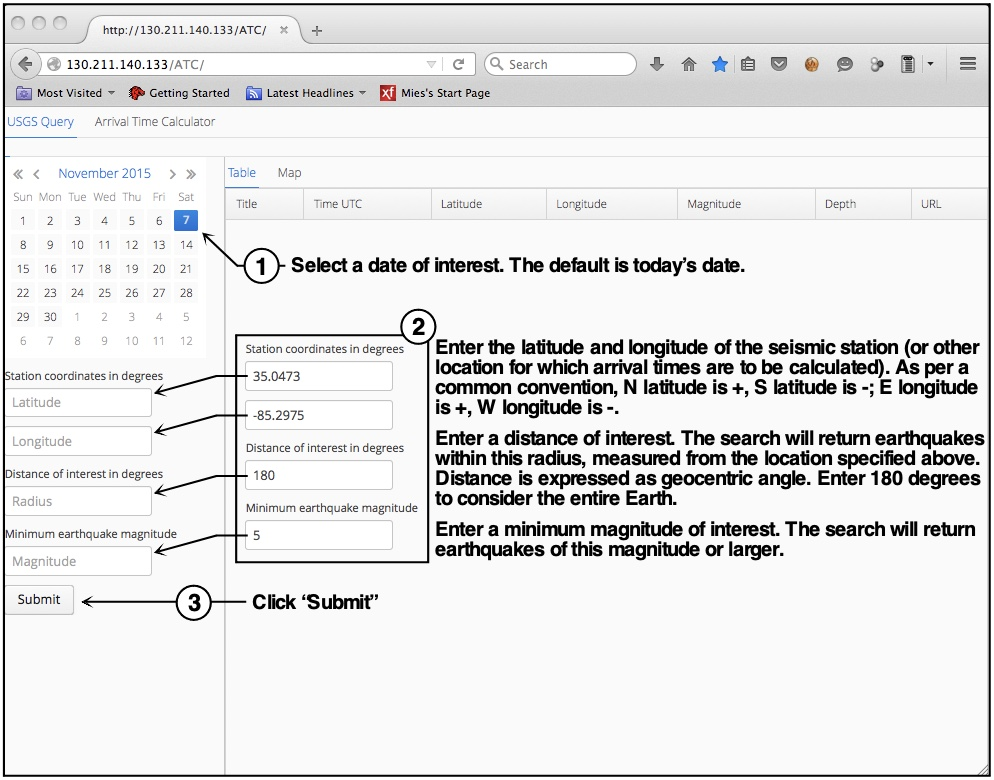
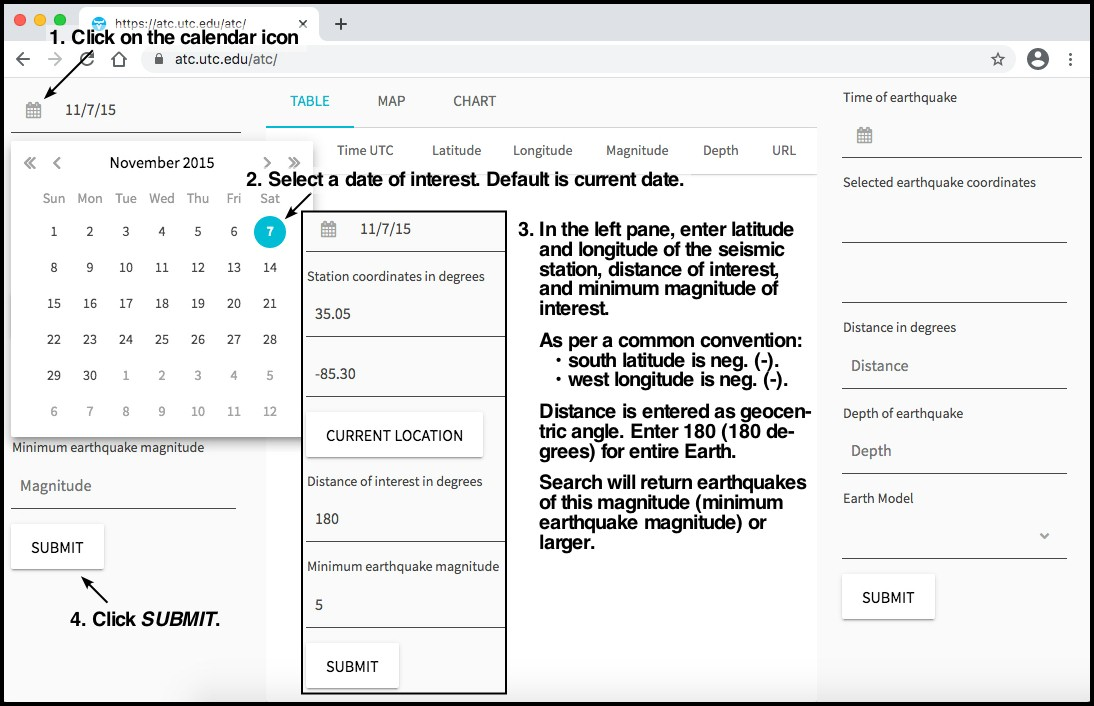
Add files via upload

diff --git a/atc/atc.html b/atc/atc.html
@@ -18,12 +18,15 @@
             </font><br>
             <font size="+1"><font size="+1">The web app was developed in
                 2016 by UTC Computer Science students, Jacob Coleman,
-                Austin Harris, and Jin Cho.</font></font><br>
+                Austin Harris, and Jin Cho. Jacob Coleman has maintained
+                the app since its inception.</font></font><br>
             <font size="+1"><br>
-              Take a moment to review the 9 steps illustrated below
+              Take a moment to review the 7 steps illustrated below
               before launching the arrival-time calculator.<br>
               <br>
             </font><a href="http://atc.utc.edu/atc/"><b><font size="+1">Launch
+
+
 
 
                   calculator</font></b></a><br>
@@ -36,10 +39,10 @@
     </table>
     <font size="+1"></font><br>
     <img src="atc1.jpg" alt="" width="750" height="589"><br>
+    <br>
     <img src="atc2.jpg" alt="" width="750" height="589"><br>
+    <br>
     <img src="atc3.jpg" alt="" width="750" height="589"><br>
-    <img src="atc4.jpg" alt="" width="750" height="589"><br>
-    <img src="atc5.jpg" alt="" width="750" height="589"><br>
     <br>
     <a href="http://atc.utc.edu/atc/"><b><font size="+1">Launch
           calculator</font></b></a><br>
